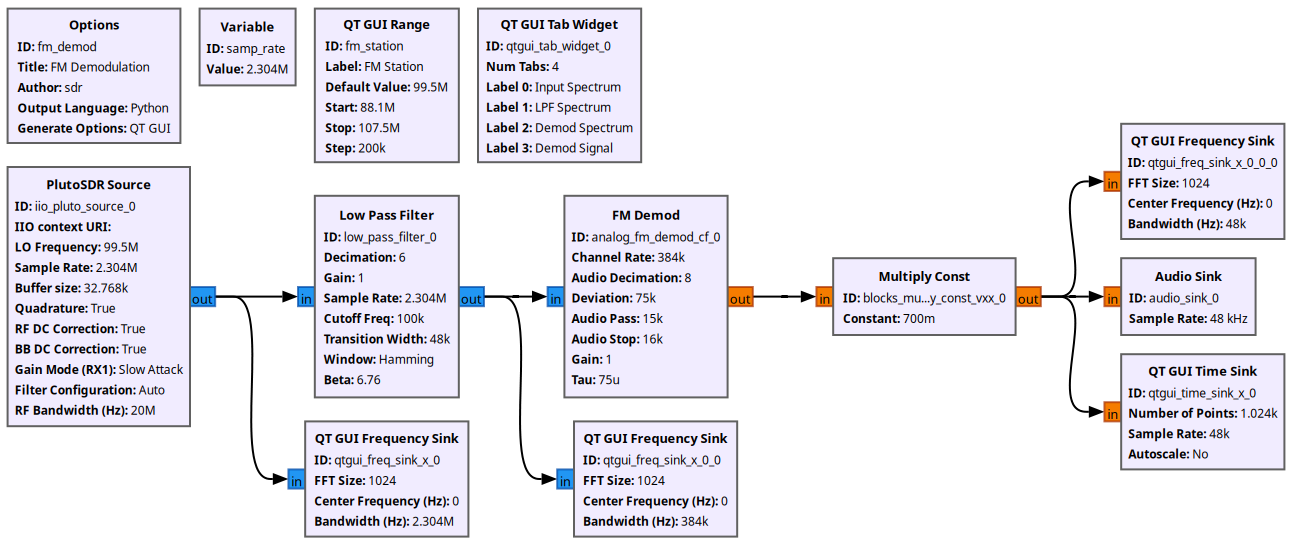
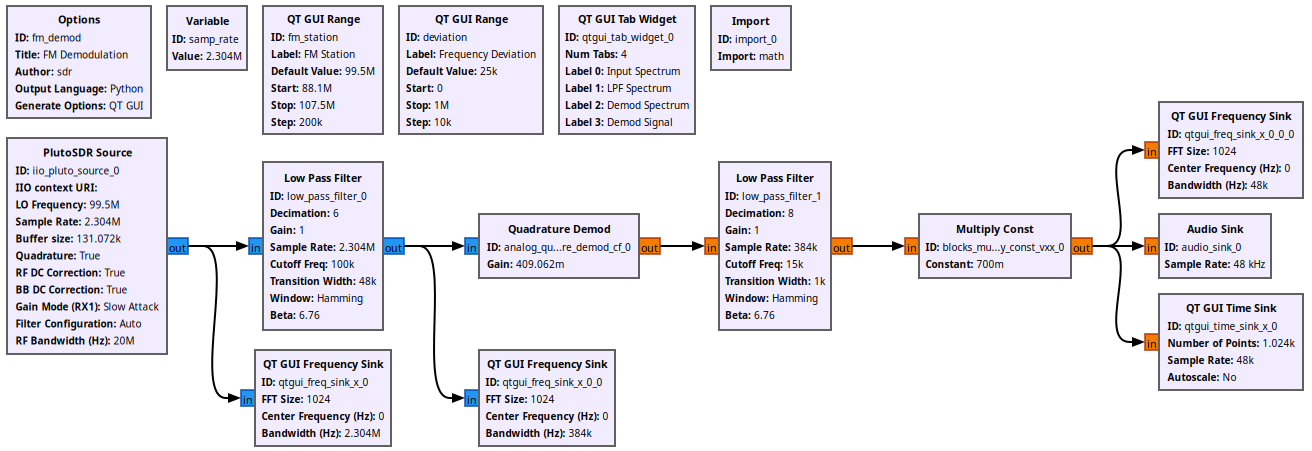
Discussing results with user flowchart

Changed region(s): [[0.0, 0.0, 1.0, 0.9933]]

diff --git a/4/lab_report.tex b/4/lab_report.tex
@@ -90,7 +90,7 @@ In this section, we use the flowchart shown in Figure \ref{fig::fm_radio_flowcha
 	\label{fig::fm_radio_demod_spectrum}
 \end{figure}
 
-\noindent Note that the spectrum of the demodulated signal is very different than the input spectrum. This is because the demodulation block returns a filtered copy of the signal phase. Note that the filter cutoff frequency is approximately 15 kHz, which is sufficient for audio signals. The filtering also prevents aliasing when we decimate the signal to the 48 kHZ audio output rate.
+\noindent Note that the spectrum of the demodulated signal is very different than the input spectrum. This is because the demodulation block computes the phase difference between adjacent samples and filters the resulting signal. Note that the filter cutoff frequency is approximately 15 kHz, which is sufficient for audio signals. The filtering also prevents aliasing when we decimate the signal to the 48 kHZ audio output rate.
 
 As hinted at above, there are two decimating filters within the block diagram. One is before the FM demodulation block and limits the bandwidth of the signal to the width of the RF channel. The second filter is included with the FM demodulation block, and it limits the frequency of the audio output for the audio sink. The first filter includes a decimate by 6, and the second filter includes a decimate by 8. As a result, our sample rate falls from 2.304 MHz to 48 kHz. Note that this decimation is important because we must feed the audio source at a rate of 48 kHz.
 
@@ -100,23 +100,33 @@ The FM radio sound quality from our flowchart is pretty good. However, we can im
 
 \subsection{Manual RF Demodulation}
 
+In this section, we perform FM radio demodulation without using the built-in FM demodulation block. We instead use the Quadrature demodulation following by a low-pass filter. Our resulting flowchart is shown in Figure \ref{fig::fm_radio_user_flowchart}.
+
 \begin{figure}[H]
 	\centerline{\fbox{\includegraphics[width=0.7\textwidth]{fm_radio_user_flowchart.png}}}
 	\caption{FM Radio Flowchart with Custom Blocks}
 	\label{fig::fm_radio_user_flowchart}
 \end{figure}
 
+\noindent In this flowchart, the quadrature demodulation block computes the phase difference between adjacent samples, which is an instantaneous measurement of the frequency.This phase difference is then scaled to produce an amplitude in range $[0, 1)$. The phase difference between adjacent samples is then passed through a low-pass filter to limit to frequency of the output signal to $\pm 15\ \text{kHZ}$. The low-pass filter also decimates the signal to get to the audio rate of 48 kHZ.
+
+As we did above, we look at the spectrum of the signal before and after demodulation. Figure \ref{fig::fm_radio_user_input_spectrum}, shows the spectrum of the received FM radio signal.
+ 
 \begin{figure}[H]
 	\centerline{\fbox{\includegraphics[width=0.7\textwidth]{fm_radio_user_input_spectrum.png}}}
 	\caption{FM Radio Input Spectrum}
 	\label{fig::fm_radio_user_input_spectrum}
 \end{figure}
 
+\noindent Note the input spectrum is identical to what was shown in Figure \ref{fig::fm_radio_input_spectrum} because the flowchart through this point is the same.  We also attach the spectrum at the output of the low-pass filter, which is shown in Figure \ref{fig::fm_radio_user_lpf_spectrum}.
+
 \begin{figure}[H]
 	\centerline{\fbox{\includegraphics[width=0.7\textwidth]{fm_radio_user_lpf_spectrum.png}}}
 	\caption{FM Radio LPF Spectrum}
 	\label{fig::fm_radio_user_lpf_spectrum}
 \end{figure}
+
+\noindent Again, we note that the spectrum is roughly the same as our prior results, which are shown in Figure \ref{fig::fm_radio_lpf_spectrum}. Next, we capture the spectrum of the signal after demodulation, which is shown in Figure \ref{fig::fm_radio_user_demod_spectrum}.
 
 \begin{figure}[H]
 	\centerline{\fbox{\includegraphics[width=0.7\textwidth]{fm_radio_user_demod_spectrum.png}}}
